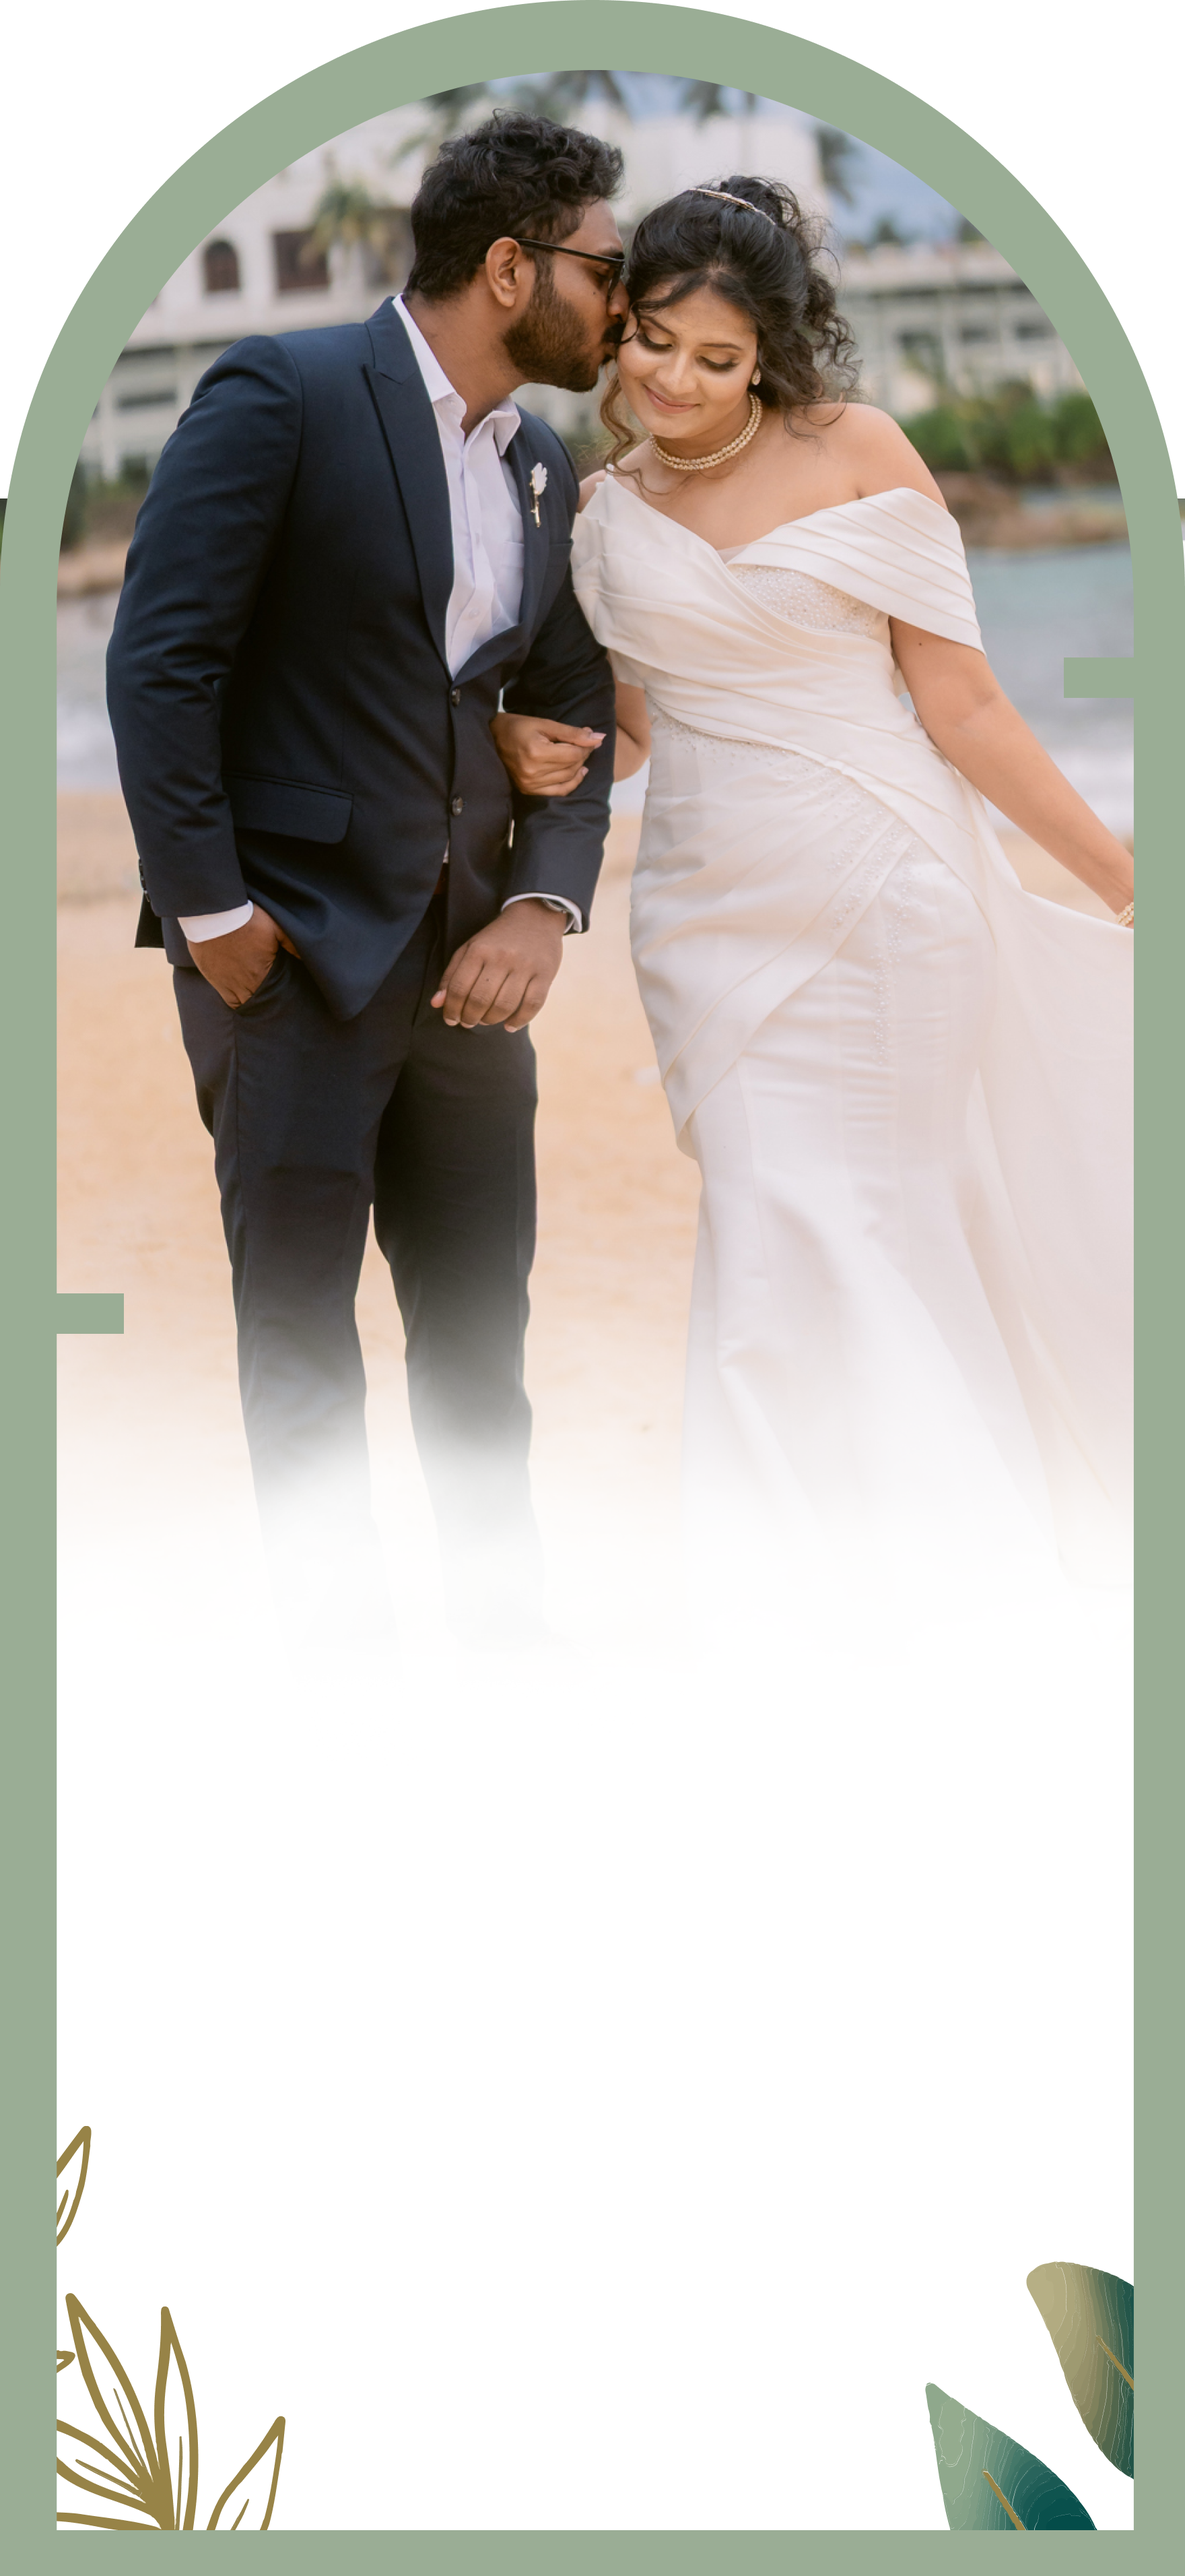
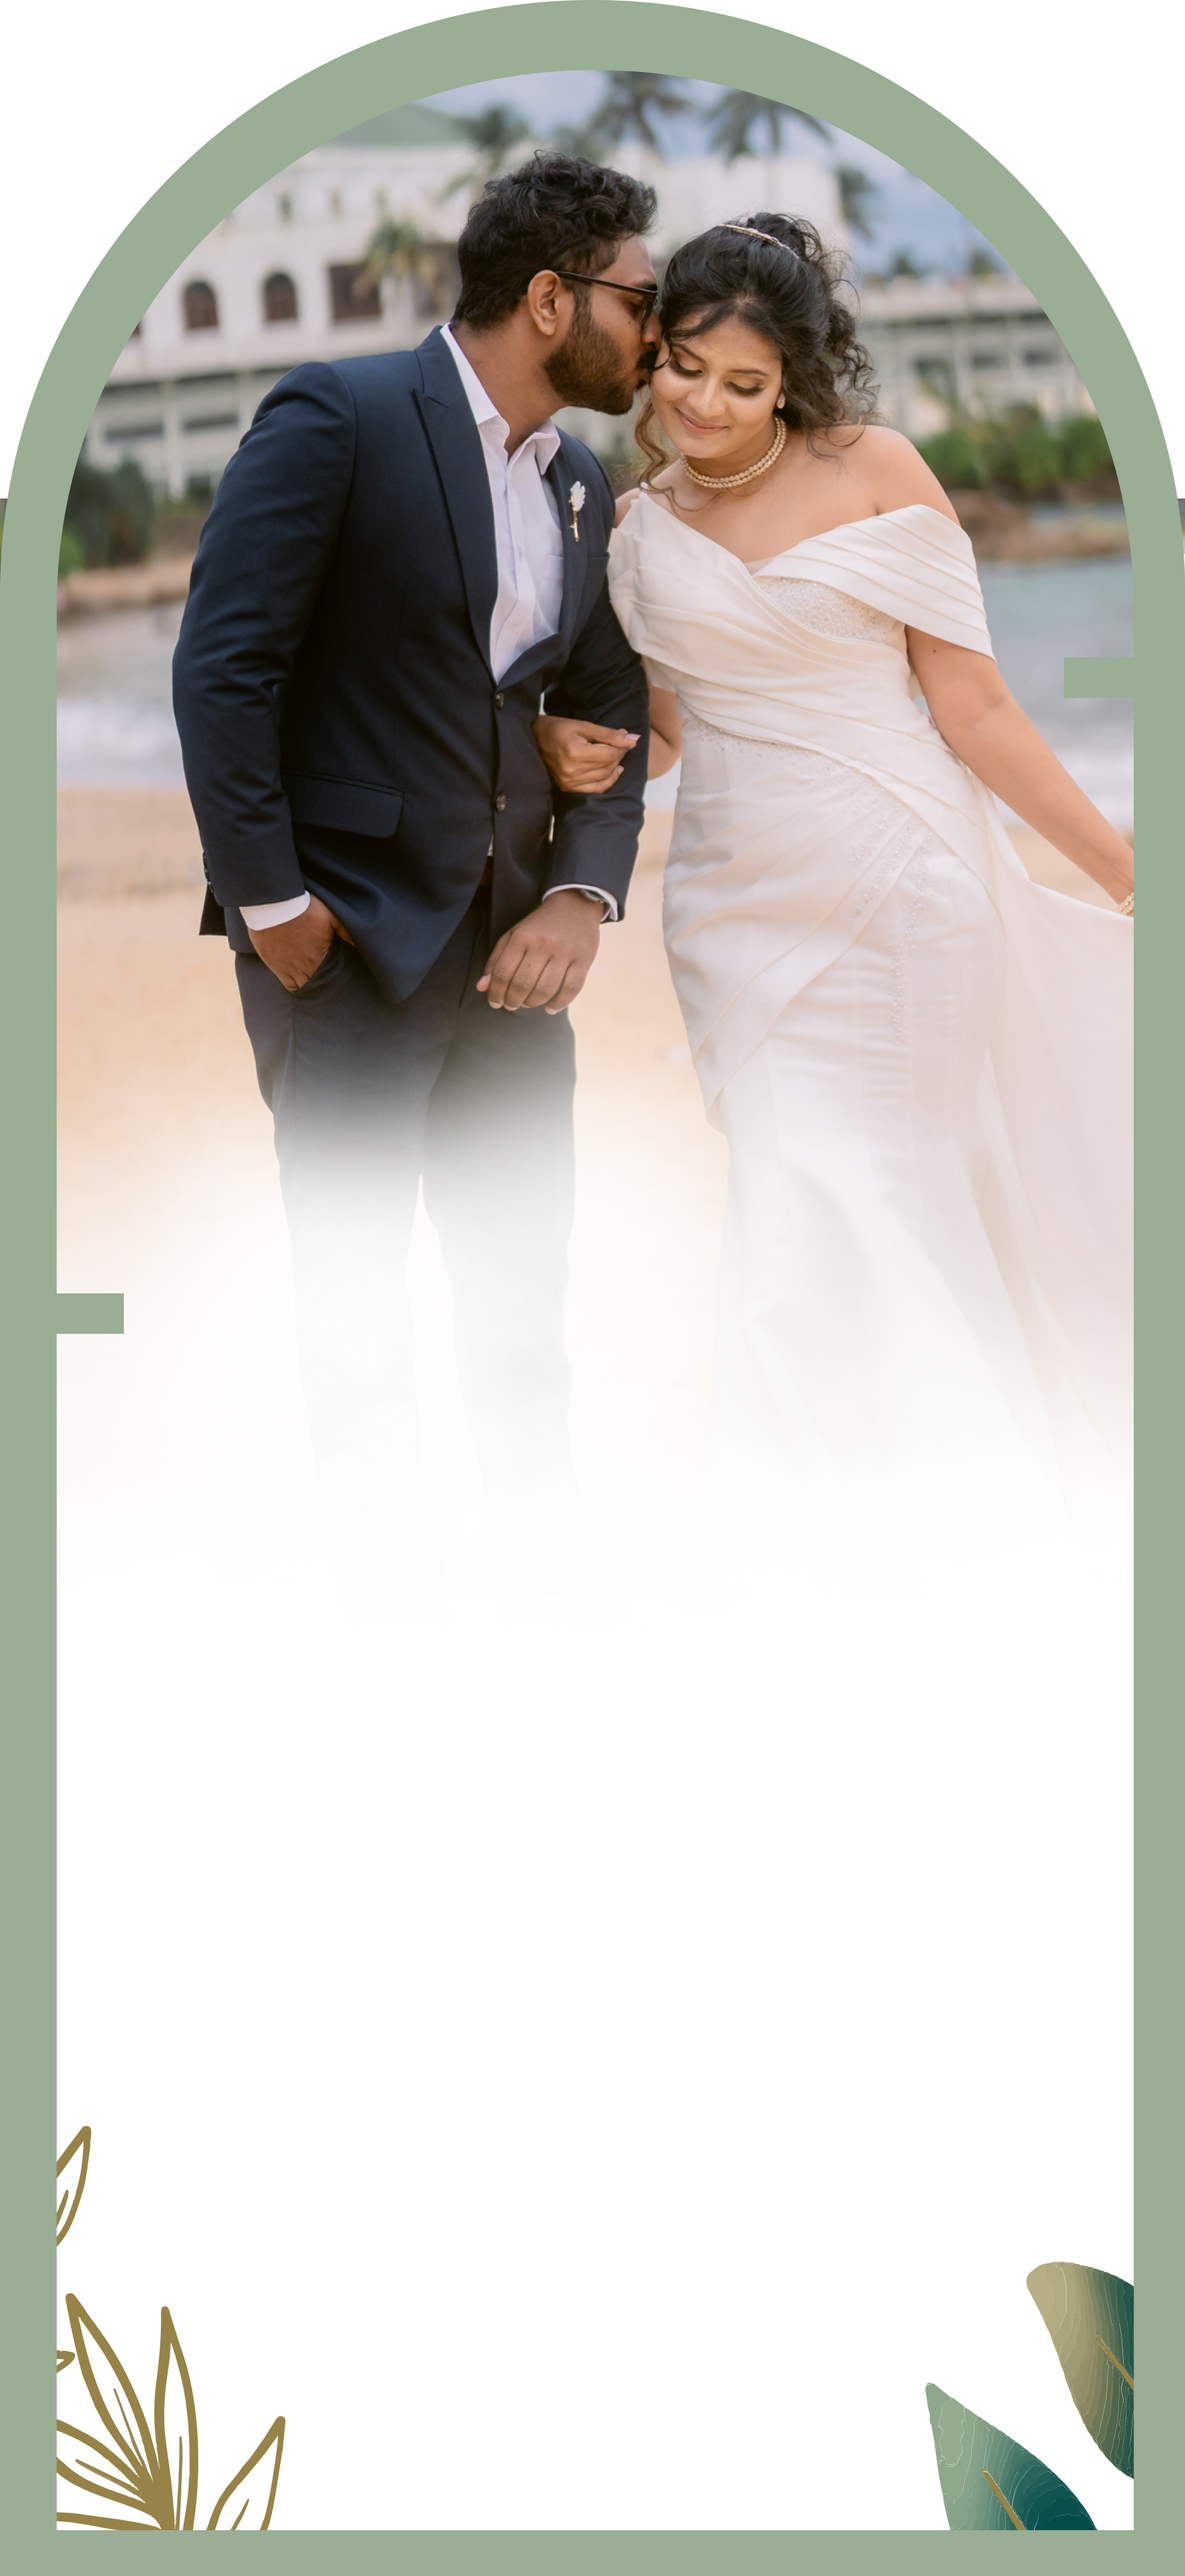
save the date page bg change

Changed region(s): [[0.0312, 0.0, 0.9688, 0.5913], [0.8438, 0.2801, 0.9688, 0.3734], [0.8125, 0.4668, 0.9062, 0.5601]]

diff --git a/src/components/sections/Invitation.tsx b/src/components/sections/Invitation.tsx
@@ -43,7 +43,7 @@ export function Invitation() {
         alignItems: 'center',
         
         justifyContent: 'flex-end',
-        paddingBottom: 'clamp(6rem, 18vh, 12rem)',
+        paddingBottom: '64px',
         paddingTop: 0,
         position: 'relative',
         overflow: 'hidden',
